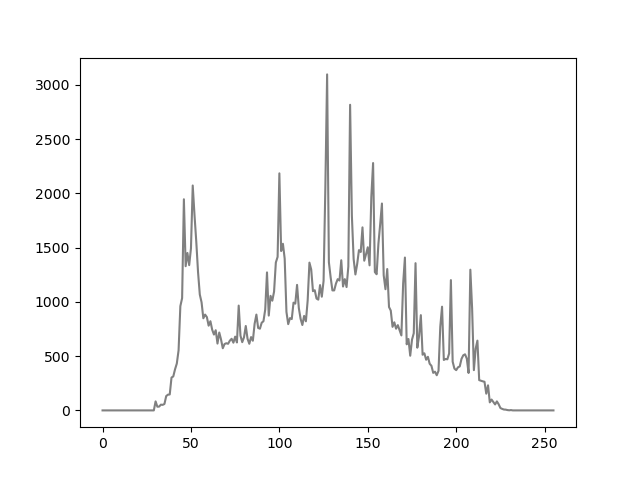
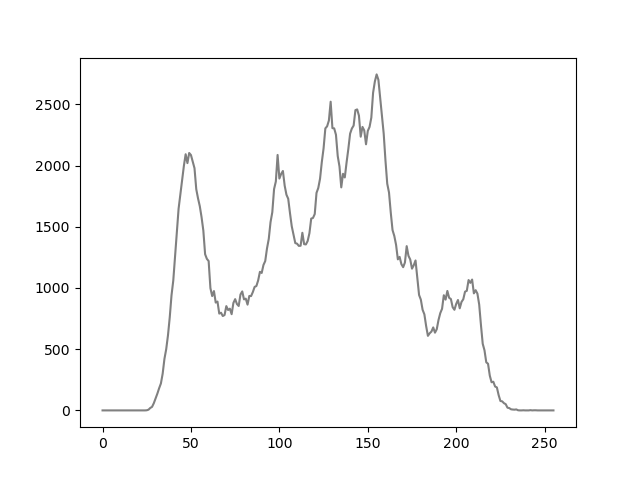
Color balance, sharpness, temperature

diff --git a/src/sample/Controller.java b/src/sample/Controller.java
@@ -85,10 +85,11 @@ public class Controller {
         kontrast.setValue(0);
         nasycenie.setValue(0);
         jasnosc.setValue(0);
-        temperatura.setValue(0);
-        balansCzerwony.setValue(0);
-        balansNiebieski.setValue(0);
-        balansZielony.setValue(0);
+        ostrosc.setValue(1);
+        temperatura.setValue(5600);
+        balansCzerwony.setValue(1);
+        balansNiebieski.setValue(1);
+        balansZielony.setValue(1);
     }
     public void saveImage(ActionEvent actionEvent) {
         FileChooser fileChooser = new FileChooser();
@@ -185,12 +186,13 @@ public class Controller {
     public void slidersChange(MouseEvent mouseEvent) throws IOException {
         BufferedImage temp = SwingFXUtils.fromFXImage(originalimage, null);
         ImageIO.write(temp, "PNG", outfile);
+        System.out.println();
         processor.all_operations((int)Math.round(kontrast.getValue()),
                 (int)Math.round(jasnosc.getValue()),
                 (int)Math.round(nasycenie.getValue()),
-                1,
-                6500,
-                1, 1, 1);
+                (int)ostrosc.getValue(),
+                (int)temperatura.getValue(),
+                balansCzerwony.getValue(), balansZielony.getValue(), balansNiebieski.getValue());
         bufferedImage = ImageIO.read(processedfile);
         image = SwingFXUtils.toFXImage(bufferedImage,null);
         imageView.setImage(image);

diff --git a/image_processing.py b/image_processing.py
@@ -207,12 +207,13 @@ class ImageProcessing():
         enhancer = ImageEnhance.Sharpness(img)
         img = enhancer.enhance(sharpness)
         # # color temperature
-        # r, g, b = self.kelvin_table[temperature]
-        # matrix = (r / 255.0, 0.0, 0.0, 0.0, 0.0, g / 255.0, 0.0, 0.0, 0.0, 0.0, b / 255.0, 0.0)
-        # img = img.convert("RGB", matrix)
+        r, g, b = self.kelvin_table[temperature]
+        matrix = (r / 255.0, 0.0, 0.0, 0.0, 0.0, g / 255.0, 0.0, 0.0, 0.0, 0.0, b / 255.0, 0.0)
+        img = img.convert("RGB")
+        img = img.convert("RGB", matrix)
         # # color balance
-        # matrix = (r_scalar, 0.0, 0.0, 0.0, 0.0, g_scalar, 0.0, 0.0, 0.0, 0.0, b_scalar, 0.0)
-        # img = img.convert("RGB", matrix)
+        matrix = (r_scalar , 0.0, 0.0, 0.0, 0.0, g_scalar, 0.0, 0.0, 0.0, 0.0, b_scalar, 0.0)
+        img = img.convert("RGB", matrix)
         img.save('swap/processed.png')
 
 if __name__ == "__main__":

diff --git a/src/sample/ImageProcessor.java b/src/sample/ImageProcessor.java
@@ -8,5 +8,5 @@ public interface ImageProcessor {
     void smoothing();
     void sharpening();
     void color_temperature(int value);
-    void all_operations(int contrast, int brightness, int saturation, int sharpness, int temperature, int r_scalar, int g_scalar, int b_scalar);
+    void all_operations(int contrast, int brightness, int saturation, int sharpness, int temperature, double r_scalar, double g_scalar, double b_scalar);
 }
